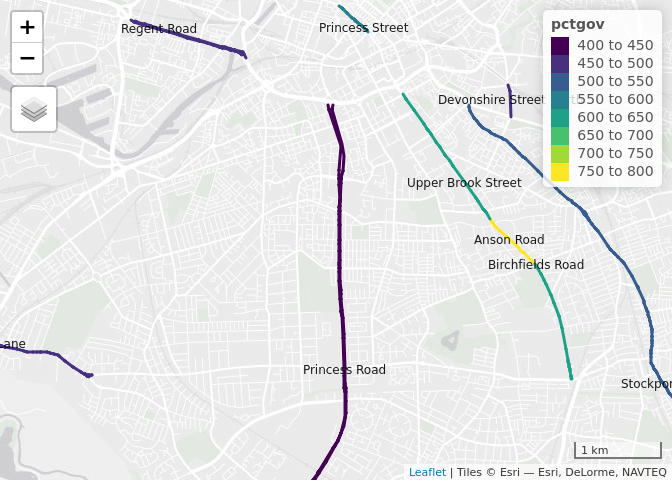
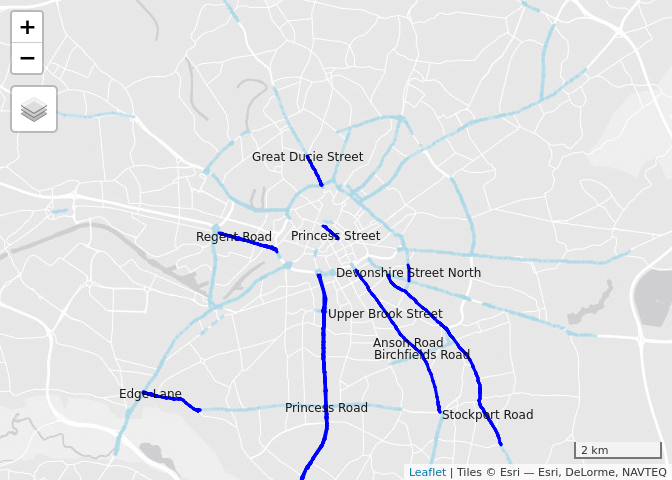
Update with new mapping approach
Heads-up @mem48 here is a new viz idea linked to your comment, any better?

diff --git a/README.md b/README.md
@@ -93,8 +93,6 @@ The top 10 roads:
 
 # Birmingham
 
-![](README_files/figure-gfm/unnamed-chunk-6-1.png)<!-- -->
-
 The top 10 roads:
 
 ![](README_files/figure-gfm/unnamed-chunk-7-1.png)<!-- -->
@@ -113,8 +111,6 @@ The top 10 roads:
 | Aldridge Road            | A453  | primary    |                260 |      2674 |
 
 # Manchester
-
-![](README_files/figure-gfm/unnamed-chunk-8-1.png)<!-- -->
 
 The top 10 roads:
 
@@ -135,8 +131,6 @@ The top 10 roads:
 
 # Leeds
 
-![](README_files/figure-gfm/unnamed-chunk-10-1.png)<!-- -->
-
 The top 10 roads:
 
 ![](README_files/figure-gfm/unnamed-chunk-11-1.png)<!-- -->
@@ -147,54 +141,50 @@ The top 10 roads:
 | Willow Road       |      | tertiary   |                466 |       316 |
 | Woodhouse Lane    | A660 | trunk      |                368 |      2373 |
 | Blenheim Walk     | A660 | trunk      |                340 |       347 |
+| Otley Road        | A660 | trunk      |                325 |      7273 |
 | Swinegate         |      | secondary  |                318 |       309 |
 | Crown Point Road  | A653 | primary    |                316 |       652 |
 | Kirkstall Road    | A65  | primary    |                261 |      3774 |
 | Clay Pit Lane     | A58  | trunk      |                257 |      2163 |
 | The Headrow       |      | tertiary   |                250 |       440 |
-| Hunslet Road      | A639 | primary    |                221 |      1860 |
 
 # Liverpool
-
-![](README_files/figure-gfm/unnamed-chunk-12-1.png)<!-- -->
 
 The top 10 roads:
 
 ![](README_files/figure-gfm/unnamed-chunk-13-1.png)<!-- -->
 
-| name          | ref   | road\_type | cycling\_potential | length\_m |
-| :------------ | :---- | :--------- | -----------------: | --------: |
-| Queensway     | A41   | primary    |                906 |      1746 |
-| Dale Street   | A57   | trunk      |                828 |       474 |
-| Princes Road  | B5175 | secondary  |                399 |       797 |
-| Crosby Road   | A565  | trunk      |                346 |      1393 |
-| Scotland Road | A59   | trunk      |                342 |      2847 |
-| Low Hill      | A580  | trunk      |                306 |      1174 |
-| Byrom Street  | A59   | trunk      |                293 |       922 |
-| Netherton Way | A5038 | primary    |                285 |      1889 |
-| Longmoor Lane | A506  | primary    |                284 |       369 |
-| Edge Lane     | A5047 | trunk      |                280 |      5270 |
+| name            | ref   | road\_type | cycling\_potential | length\_m |
+| :-------------- | :---- | :--------- | -----------------: | --------: |
+| Dale Street     | A57   | trunk      |                828 |       474 |
+| Princes Road    | B5175 | secondary  |                399 |       797 |
+| Scotland Road   | A59   | trunk      |                342 |      2847 |
+| Low Hill        | A580  | trunk      |                306 |      1174 |
+| Byrom Street    | A59   | trunk      |                293 |       922 |
+| Longmoor Lane   | A506  | primary    |                284 |       369 |
+| Edge Lane       | A5047 | trunk      |                280 |      5270 |
+| Brownlow Hill   |       | tertiary   |                262 |       790 |
+| Erskine Street  | A580  | trunk      |                253 |       469 |
+| West Derby Road | A5049 | trunk      |                250 |      4137 |
 
 # Bristol
-
-![](README_files/figure-gfm/unnamed-chunk-14-1.png)<!-- -->
 
 The top 10 roads:
 
 ![](README_files/figure-gfm/unnamed-chunk-15-1.png)<!-- -->
 
-| name                | ref   | road\_type   | cycling\_potential | length\_m |
-| :------------------ | :---- | :----------- | -----------------: | --------: |
-| Temple Way          | A4044 | trunk        |                432 |       708 |
-| Newfoundland Street | A4044 | trunk        |                255 |       496 |
-| Bond Street South   | A4044 | trunk        |                246 |      1039 |
-| Bedminster Parade   | A38   | trunk        |                234 |       401 |
-| Bath Road           | A4    | trunk        |                191 |      6227 |
-| Coronation Road     | A370  | trunk        |                179 |      2033 |
-| Clarence Road       | A370  | trunk        |                124 |       666 |
-| Malago Road         | A38   | trunk        |                123 |       478 |
-| Hotwell Road        | A4    | primary      |                117 |       533 |
-| East Street         |       | unclassified |                111 |       392 |
+| name              | ref   | road\_type   | cycling\_potential | length\_m |
+| :---------------- | :---- | :----------- | -----------------: | --------: |
+| Temple Way        | A4044 | trunk        |                432 |       708 |
+| Bond Street       | A4044 | trunk        |                268 |       442 |
+| Bond Street South | A4044 | trunk        |                246 |      1039 |
+| Bedminster Parade | A38   | trunk        |                234 |       401 |
+| Bath Road         | A4    | trunk        |                191 |      6227 |
+| Coronation Road   | A370  | trunk        |                179 |      2033 |
+| Clarence Road     | A370  | trunk        |                124 |       666 |
+| Malago Road       | A38   | trunk        |                123 |       478 |
+| Hotwell Road      | A4    | primary      |                117 |       533 |
+| East Street       |       | unclassified |                111 |       392 |
 
 # Leicester
 
@@ -219,8 +209,6 @@ The top 10 roads:
 
 # Sheffield
 
-![](README_files/figure-gfm/unnamed-chunk-18-1.png)<!-- -->
-
 The top 10 roads:
 
 ![](README_files/figure-gfm/unnamed-chunk-19-1.png)<!-- -->
@@ -240,28 +228,24 @@ The top 10 roads:
 
 # Newcastle
 
-![](README_files/figure-gfm/unnamed-chunk-20-1.png)<!-- -->
-
 The top 10 roads:
 
 ![](README_files/figure-gfm/unnamed-chunk-21-1.png)<!-- -->
 
-| name             | ref   | road\_type | cycling\_potential | length\_m |
-| :--------------- | :---- | :--------- | -----------------: | --------: |
-| Askew Road       | A184  | trunk      |                169 |      2131 |
-| Barrack Road     | A189  | primary    |                344 |      1063 |
-| Coast Road       | A1058 | trunk      |                529 |     17203 |
-| Felling Bypass   | A184  | trunk      |                490 |      8164 |
-| Great North Road | B1318 | secondary  |                214 |       781 |
-| Jedburgh Road    | A167  | trunk      |                130 |      5621 |
-| Jesmond Road     | A1058 | trunk      |                211 |      1356 |
-| Kingsway South   |       | tertiary   |                113 |      2467 |
-| Park Lane        | A184  | trunk      |                144 |       917 |
-| Park Road        | A184  | trunk      |                666 |      2849 |
+| name                | ref   | road\_type | cycling\_potential | length\_m |
+| :------------------ | :---- | :--------- | -----------------: | --------: |
+| Park Road           | A184  | trunk      |                666 |      2849 |
+| Coast Road          | A1058 | trunk      |                529 |     17203 |
+| Felling Bypass      | A184  | trunk      |                490 |      8164 |
+| Barrack Road        | A189  | primary    |                344 |      1063 |
+| Newcastle Road      | A184  | trunk      |                293 |      4492 |
+| Great North Road    | B1318 | secondary  |                214 |       781 |
+| Jesmond Road        | A1058 | trunk      |                211 |      1356 |
+| St James’ Boulevard | A189  | primary    |                169 |      1042 |
+| Askew Road          | A184  | trunk      |                169 |      2131 |
+| Park Lane           | A184  | trunk      |                144 |       917 |
 
 # Cambridge
-
-![](README_files/figure-gfm/unnamed-chunk-22-1.png)<!-- -->
 
 The top 10 roads:
 
@@ -277,3 +261,5 @@ The top 10 roads:
 |                       | A1134 | primary     |                639 |       187 |
 | Emmanuel Street       |       | residential |                586 |       151 |
 | Chesterton Road       | A1134 | primary     |                530 |       194 |
+| Milton Road           | A1309 | primary     |                364 |      1730 |
+| Victoria Road         | A1134 | primary     |                312 |       114 |
